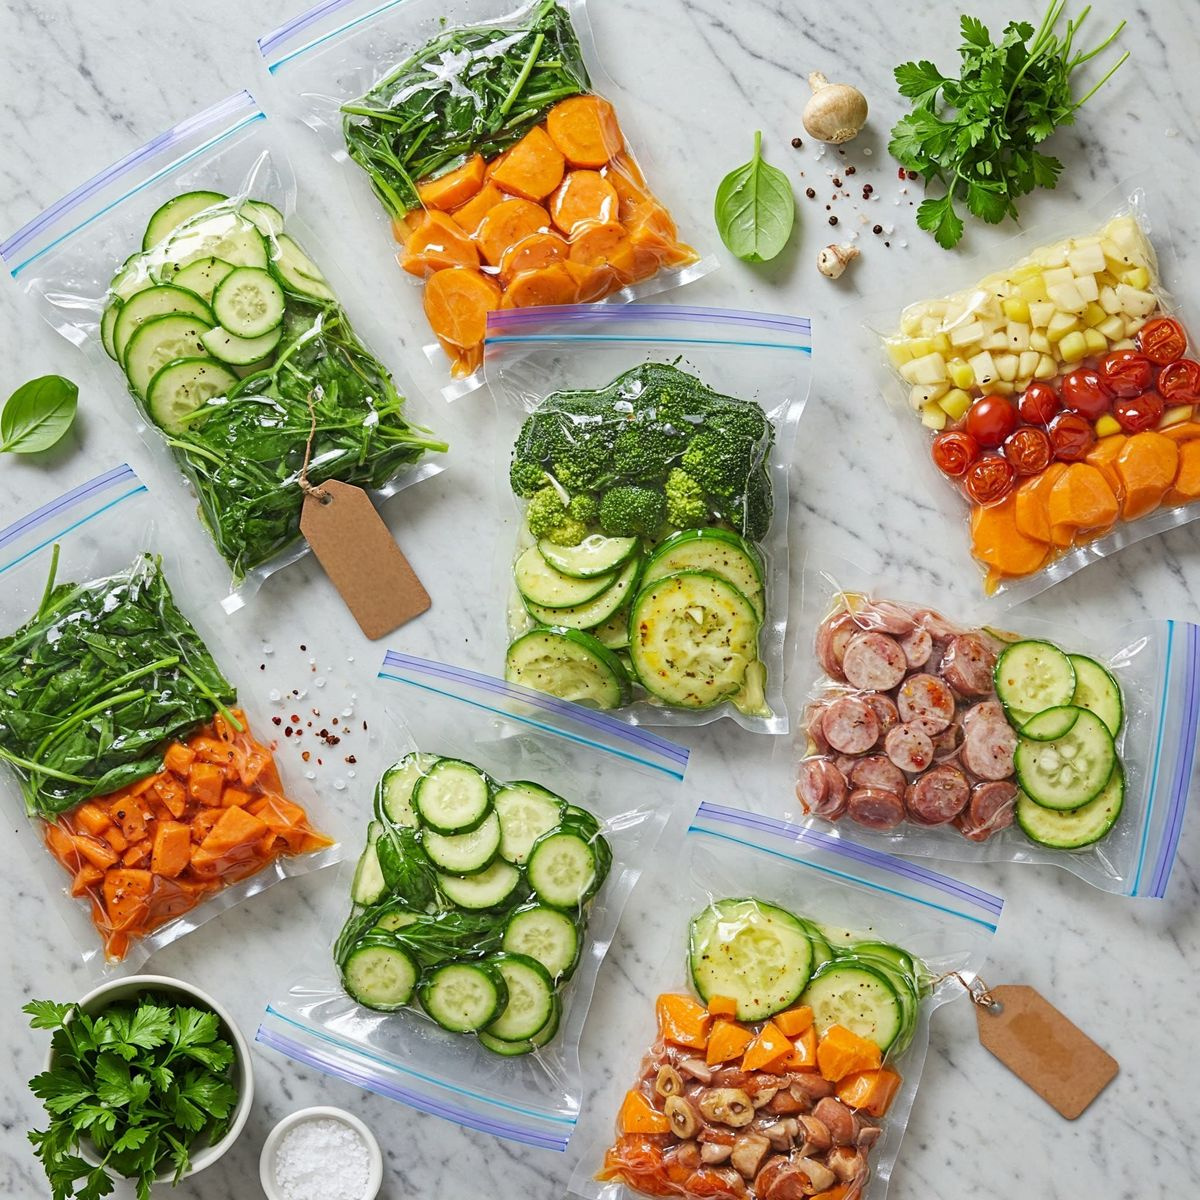
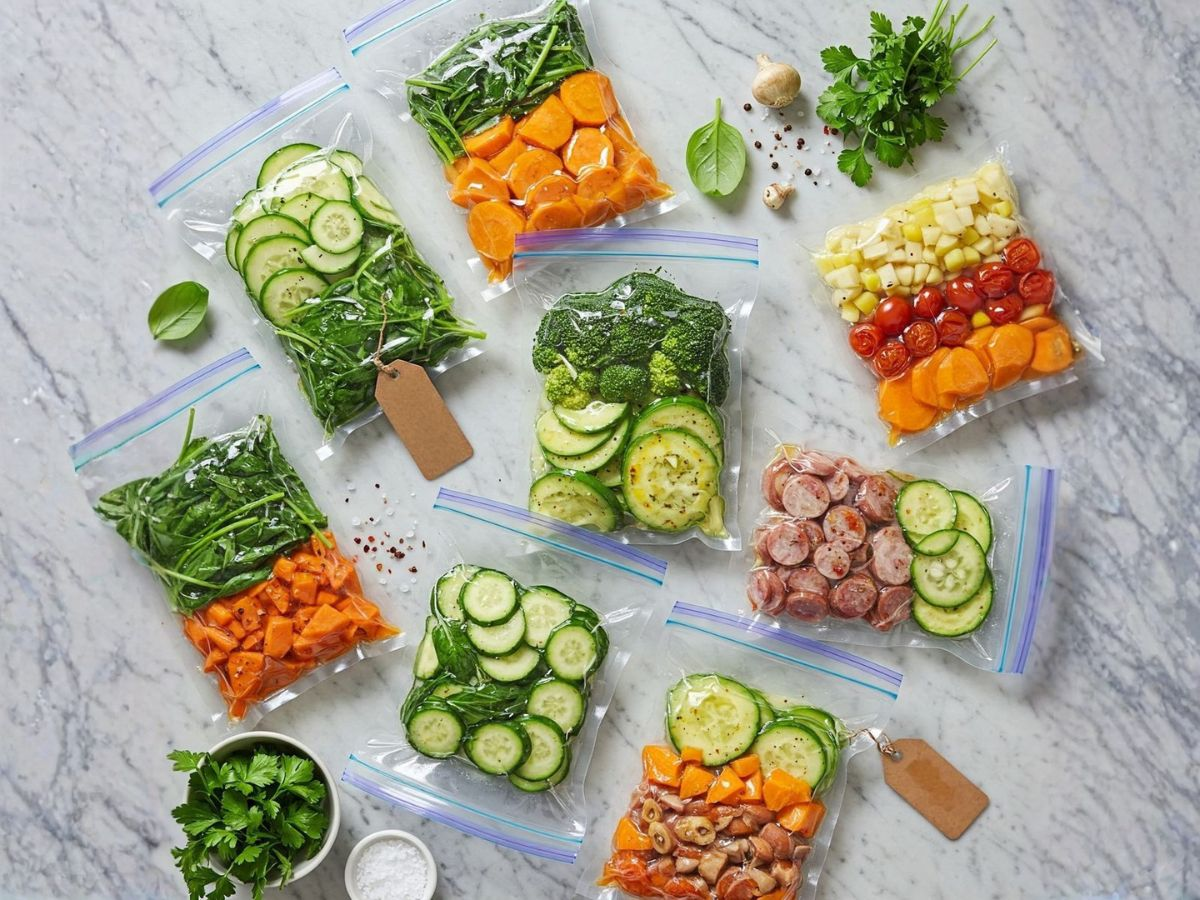
updated

diff --git a/src/app/products/page.tsx b/src/app/products/page.tsx
@@ -15,7 +15,7 @@ export default function Products() {
       id: "01",
       title: "Pakistani Dates",
       icon: <FaLeaf className="text-3xl text-primary" />,
-      image: "/images/pakistani-date.jpg",
+      image: "/images/pakistani date.jpg",
       features: [
         "Best quality of Pakistani Dates",
         "Sweet, healthy & ready to serve",
@@ -33,10 +33,7 @@ export default function Products() {
       title: "Roasted Black Chickpeas",
       icon: <FaCookieBite className="text-3xl text-primary" />,
       image: "/images/chickpea1.jpg",
-      features: [
-        "Nutrient-rich and low in calories",
-        "Supports bone strength",
-      ],
+      features: ["Nutrient-rich and low in calories", "Supports bone strength"],
     },
     {
       id: "04",
@@ -71,7 +68,7 @@ export default function Products() {
 
         {/* ====== Product Cards Grid ====== */}
         <div className="grid grid-cols-1 md:grid-cols-2 gap-10 lg:gap-12 max-w-6xl mx-auto">
-          {products.map((product,index) => (
+          {products.map((product, index) => (
             <motion.div
               key={product.id}
               initial={{ opacity: 0, y: 30 }}
@@ -80,16 +77,16 @@ export default function Products() {
               className="group bg-bg rounded-2xl shadow-md hover:shadow-xl hover:scale-[1.02] transition-all overflow-hidden text-left backdrop-blur-sm"
             >
               {/* Product Image */}
-              <div className="relative w-full h-56 md:h-48 overflow-hidden ">
+              <div className="relative aspect-[4/3] overflow-hidden">
                 <Image
                   src={product.image}
                   alt={product.title}
                   fill
-                  sizes="(max-width: 768px) 100vw, (max-width: 1200px) 50vw, 33vw"
-                  className="object-cover transition-transform duration-500 group-hover:scale-105"
+                  priority
+                  sizes="(max-width: 768px) 100vw, 50vw"
+                  className="object-cover object-center"
                 />
               </div>
-
               {/* Product Content */}
               <div className="p-6 ">
                 <div className="flex items-center gap-3 mb-3">

diff --git a/src/app/page.tsx b/src/app/page.tsx
@@ -15,9 +15,9 @@ export default function Home() {
     <main>
       <Hero2/>
       <About/>
-      <Products/>
-      <Varieties/>
       <Benefits/>
+      <Varieties/>
+      <Products/>
       <FromFarm/>
       <Map/>
       <Experties/>

diff --git a/src/app/components/Navbar.tsx b/src/app/components/Navbar.tsx
@@ -24,7 +24,7 @@ export default function Navbar() {
   ];
 
   return (
-    <nav className="fixed w-full bg-bg border-b border-b-light/30 backdrop-blur-xl shadow-stone-500 z-50">
+    <nav className="fixed w-full bg-bg backdrop-blur-xl shadow-stone-500 z-50">
       <div className="container max-w-7xl mx-auto px-4 sm:px-6 lg:px-8">
         <div className="flex items-center justify-between h-16">
           {/* ===== Logo Section ===== */}

diff --git a/src/app/varieties/page.tsx b/src/app/varieties/page.tsx
@@ -79,7 +79,7 @@ export default function Varieties(): JSX.Element {
                 src={item.image as string}
                 alt={item.name}
                 fill
-                className="object-cover hover:scale-110 transition-transform duration-1000"
+                sizes="(max-width: 768px) 100vw, (max-width: 1200px) 50vw, 33vw"                className="object-cover hover:scale-110 transition-transform duration-1000"
               />
             </div>
 